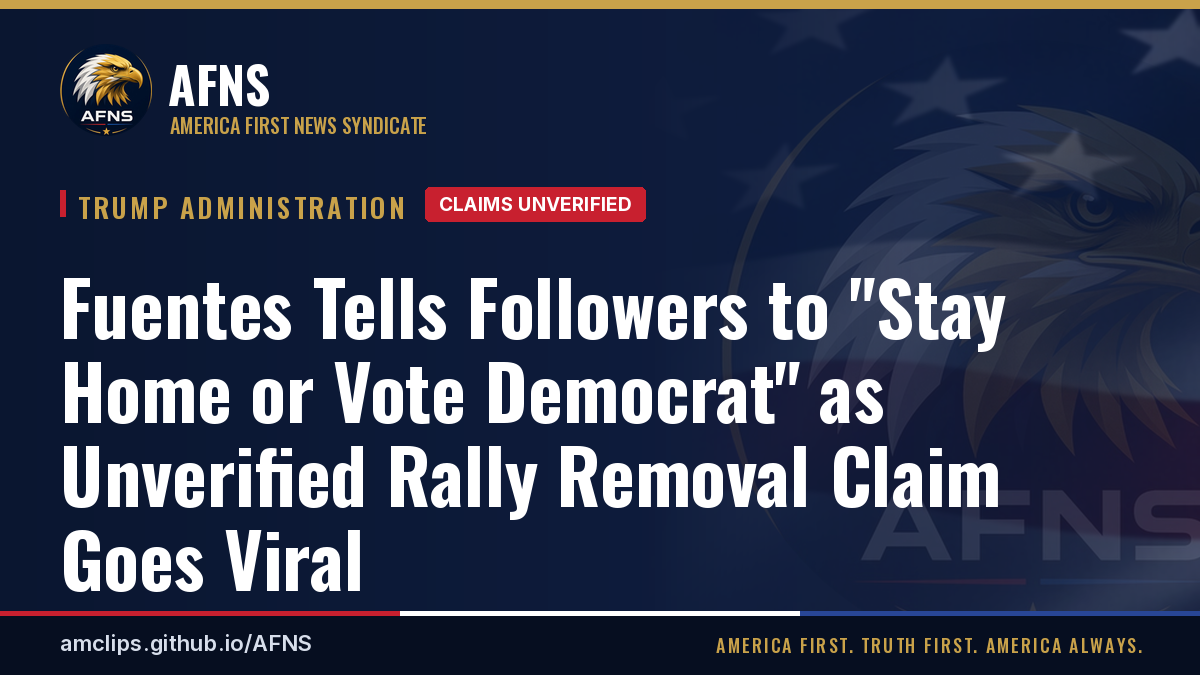
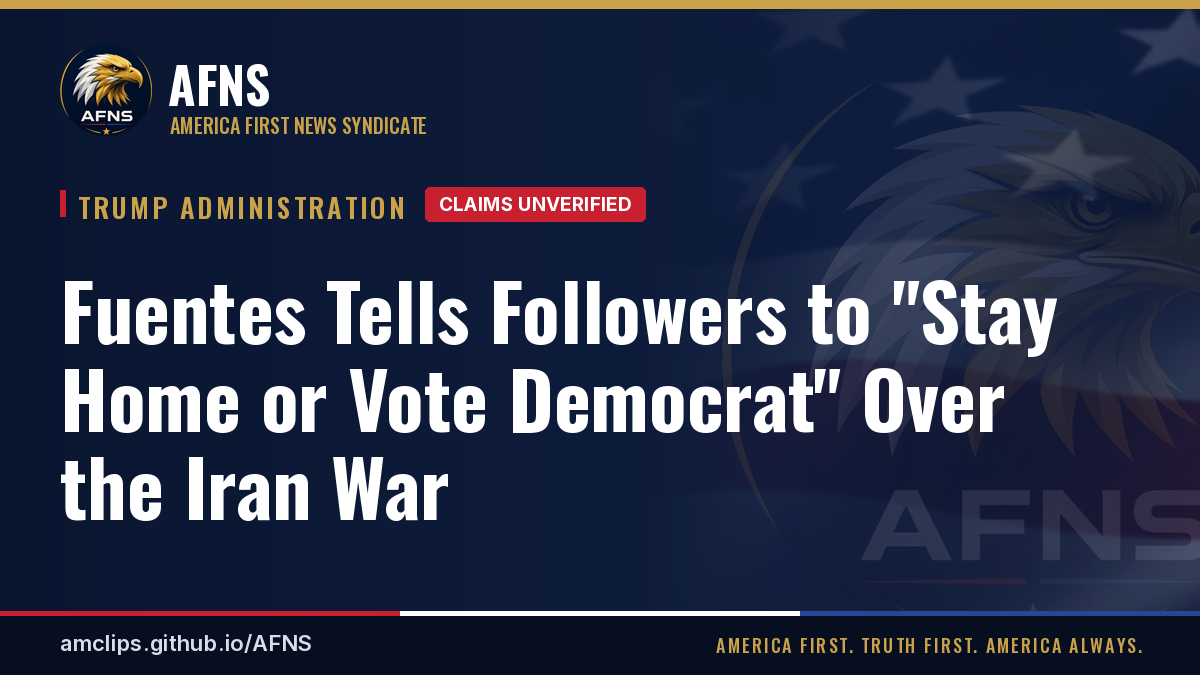
Add the Oct 29 courts, press-access, and DSA stories. (#15)
Five new articles with photos and share cards, plus updates to four existing stories including the Fuentes card. Append five photo credits.

Changed region(s): [[0.0308, 0.4044, 0.8942, 0.9022]]

diff --git a/content/trump-administration/courts-push-back-refugee-rule-california-ballots.md b/content/trump-administration/courts-push-back-refugee-rule-california-ballots.md
@@ -2,7 +2,7 @@
 title: "Courts Push Back on Trump Administration Over Refugee Rule and California Ballots"
 desk: trump-administration
 date: 2026-10-28
-summary: "A federal judge in Massachusetts paused a USCIS rule that gave refugees 10 days instead of 30 to answer termination notices. In California, the 9th Circuit ruled 2-1 against setting aside about 20,000 mail ballots that the administration says went to \"likely\" noncitizens. A district judge is expected to rule Wednesday. The administration defends both moves."
+summary: "Updated Oct. 29: U.S. District Judge David O. Carter on Oct. 28 denied the Justice Department's request to set aside up to 20,000 California mail ballots from voters the administration flagged as likely noncitizens, calling its allegations \"not credible.\" The administration says it will appeal. In Massachusetts, a federal judge paused a USCIS rule that gave refugees 10 days instead of 30 to answer termination notices."
 image: "img/stories/courts-push-back-refugee-rule-california-ballots.jpg"
 image_alt: "The John Joseph Moakley U.S. Courthouse in Boston, seen across the harbor"
 image_credit: "4300streetcar / Wikimedia Commons"
@@ -13,8 +13,14 @@ key_points:
   - Judge Julia Kobick issued a 10-day administrative stay, through Nov. 6, of the USCIS rule cutting refugees' response window from 30 days to 10
   - DHS estimated the rule could affect up to 186,000 refugees; the administration defends it as a national-security and anti-fraud measure
   - The 9th Circuit ruled 2-1 against sequestering about 20,000 California mail ballots the administration says went to "likely" noncitizens
-  - Judge David O. Carter plans to appoint a special master, which could push a final decision past Nov. 3. He is expected to rule Wednesday
+  - Update - Judge David O. Carter denied the request on Oct. 28, when more than 3.7 million Californians had already voted. He called the administration's allegations "not credible"
+  - The administration, which flagged the voters as likely noncitizens, says it will appeal
+  - Los Angeles officials said a preliminary check of 200 names found a "high percentage" who say they were born in the U.S.
 sources:
+  - Judge Carter's order denying the TRO (PDF, via the California Attorney General) | https://oag.ca.gov/system/files/attachments/press-docs/10-28-2026-order-denying-tro.pdf
+  - AP: judge denies federal request on California ballots | https://apnews.com/article/california-noncitizen-voting-trump-midterm-lawsuit-481bed64919ad193e80e051d28beb2c0
+  - LA Times: judge denies feds' request to block 20,000 California ballots | https://www.latimes.com/politics/story/2026-10-28/judge-denies-feds-request-to-block-20-000-california-ballots-in-blistering-opinion
+  - ABC News: judge rejects request to segregate 20,000 ballots | https://abcnews.com/Politics/judge-rejects-trump-administration-request-order-segregate-20000/story?id=137660006
   - The Hill: judge blocks refugee rule | https://thehill.com/homenews/administration/6176283-judge-blocks-refugees-rule/
   - Court order (PDF, via Democracy Forward) | https://democracyforward.org/wp-content/uploads/2026/10/Pana-Order.pdf
   - Investing.com: judge blocks refugee rule | https://www.investing.com/news/world-news/us-judge-blocks-trump-rule-cutting-the-time-refugees-have-to-contest-end-of-status-4976648
@@ -23,7 +29,20 @@ sources:
   - ABC News: judge to appoint special master | https://abcnews.com/Politics/judge-appoint-special-master-california-voting-case-setback/story?id=137622503
 ---
 
-**Status: Temporary orders; cases ongoing.** Neither case has a final ruling. The refugee order is a short administrative stay, and the California dispute is still before a district judge.
+**Updated Oct. 29, 2026.** Judge Carter has ruled on the California ballots. See the update below. First published Oct. 28.
+
+**Status: Temporary orders; cases ongoing.** Neither case is over. The refugee order is a short administrative stay. In California, the district judge denied the administration's request, and the administration says it will appeal.
+
+## Update, Oct. 29: judge denies the California ballot request
+
+On Oct. 28, U.S. District Judge David O. Carter denied the Justice Department's request to stop election officials from processing the ballots of up to 20,000 voters whose citizenship the administration questions ([order](https://oag.ca.gov/system/files/attachments/press-docs/10-28-2026-order-denying-tro.pdf), via the California Attorney General; AP). More than 3.7 million Californians had already voted.
+
+- **The ruling:** Carter wrote that the intervention would "wreak havoc" on the election, and that "Eroded trust in our democracy is irreparable. Once a vote is segregated, lasting harm has occurred" (AP).
+- **The allegations:** Carter called the administration's allegations "not credible" (LA Times).
+- **The sample check:** in court papers, Los Angeles officials said a preliminary check of 200 names on the list found a "high percentage" who say they were born in the U.S. They said the sample also turned up many people with no voting history at all (ABC News).
+- **The earlier appeals ruling:** earlier in the week, a federal appeals court panel ruled 2-1 against a similar request for an immediate order (ABC News; see below).
+
+**The administration's side:** the administration flagged these voters as likely noncitizens and asked the court to have California set their mail ballots aside. It says it will appeal Carter's decision (LA Times). The fight now moves to a higher court less than a week before the Nov. 3 midterms.
 
 ## The refugee rule
 
@@ -46,14 +65,14 @@ The administration is seeking to keep about 20,000 mail ballots from being count
 - **The majority:** Judge Gabriel Sanchez wrote that granting the request would invite "disorder and confusion for voters and election officials alike."
 - **The states' role:** the panel noted that running elections is the state's job.
 
-**The district court:** U.S. District Judge David O. Carter (LA Times; ABC News):
+**The district court, before the ruling:** U.S. District Judge David O. Carter (LA Times; ABC News):
 
 - questioned how the suspect-voter list was put together
 - warned about disenfranchising eligible voters
 - told federal officials to stop threatening election workers
-- plans to appoint a special master, which could push a final decision past Nov. 3
+- had said he planned to appoint a special master, which could push a final decision past Nov. 3
 
-Carter is expected to rule Wednesday, Oct. 28.
+Carter ruled on Oct. 28. See the update above.
 
 **The administration's side:** it says the request is aimed at keeping ballots sent to likely noncitizens from being counted.
 

diff --git a/content/trump-administration/fuentes-stay-home-or-vote-democrat-post.md b/content/trump-administration/fuentes-stay-home-or-vote-democrat-post.md
@@ -1,8 +1,8 @@
 ---
-title: "Fuentes Tells Followers to \"Stay Home or Vote Democrat\" as Unverified Rally Removal Claim Goes Viral"
+title: "Fuentes Tells Followers to \"Stay Home or Vote Democrat\" Over the Iran War"
 desk: trump-administration
 date: 2026-10-27
-summary: "Nick Fuentes's Oct. 26 X post urging followers to skip the midterms or vote Democrat over the Iran war drew about 1.8M views. Separately, viral posts claim a Fuentes fan was removed from a JD Vance rally for wearing an \"America First\" hat. That claim is UNVERIFIED: no news outlet has confirmed it."
+summary: "Nick Fuentes's Oct. 26 X post urging followers to skip the midterms or vote Democrat over the Iran war drew about 1.8M views. Correction: a man in an \"America First\" hat at a JD Vance rally was moved by security to another spot, not thrown out, according to Montana Rep. Braxton Mitchell."
 image: "img/stories/fuentes-stay-home-or-vote-democrat-post.jpg"
 image_alt: "'Vote Here' sign outside a polling place"
 image_credit: "Lorie Shaull / Wikimedia Commons"
@@ -12,19 +12,22 @@ status: "Claims unverified"
 key_points:
   - Fuentes wrote: "Trump promised “no new wars,” then started a war with Iran that we are not only losing but which also destroyed the economy... Stay home or vote Democrat."
   - He has pushed the same message on his stream and earlier backed Democrat Amy Acton for Ohio governor.
-  - UNVERIFIED: the claim that a fan was removed from a Vance rally. Fuentes criticized Vance over it on his show.
+  - Correction: a man in an America First hat at a Vance rally was moved by security, not thrown out, per Montana Rep. Braxton Mitchell to Belgrade News.
   - UNVERIFIED: a viral "Fuentes arrest" story. Only unverified sites are running it, and he was streaming normally.
 sources:
+  - Belgrade News: man in America First hat wasn't thrown out, Mitchell says | https://www.belgrade-news.com/news/man-wearing-america-first-hat-wasnt-thrown-out-of-rally-mitchell-says/article_733030bd-547a-43af-898e-d582eb9cf005.html
   - Fuentes post on X | https://x.com/NickJFuentes/status/2114784559279784051
   - Newsweek | https://www.newsweek.com/far-right-gen-z-influencer-tells-fans-to-skip-midterms-or-vote-democrat-11613601
   - Conservative Institute on the Acton endorsement | https://conservativeinstitute.org/politics/fuentes-urges-ohio-voters-to-back-democrat-acton-over-ramaswamy.htm
-  - @ImperiumFirst rally video | https://x.com/ImperiumFirst/status/2114811413264777704
+  - @ImperiumFirst rally video (claim corrected) | https://x.com/ImperiumFirst/status/2114811413264777704
   - Dayton Daily News on the Oct. 21 heckler | https://www.daytondailynews.com/local/update-protester-removed-from-behind-vance-at-local-gop-rally/article_ff5e431b-d0db-513e-9e27-c800d5f73ee6.html
   - Fuentes clip | https://x.com/whitesocksAF/status/2114947629356585018
   - The Hill "Rising" segment | https://thehill.com/video/does-gop-have-groyper-problem-jack-butler-discusses-rise-of-fuentes-fans-rising/12294751/
 ---
 
-**Status: Claims unverified.** The post and its view count are documented. The rally-removal claim and the arrest story are **UNVERIFIED**.
+**Correction, Oct. 29, 2026:** An earlier version of this article, including its headline, described an UNVERIFIED claim that a Fuentes fan was removed from a JD Vance rally for wearing an America First hat. Montana state Rep. Braxton Mitchell told Belgrade News that the man was not thrown out. He said security moved the man, a volunteer, to a different spot. The headline and text have been corrected.
+
+**Status: Claims unverified.** The post and its view count are documented. The arrest story is **UNVERIFIED**.
 
 ## The post
 
@@ -34,9 +37,11 @@ On October 26, Fuentes posted that Trump had broken his "no new wars" promise wi
 
 He has repeated the message on his stream, telling viewers, "Do not vote in the midterms, and if you do, vote Democrat." Earlier this month he endorsed Democrat Amy Acton over Vivek Ramaswamy in Ohio.
 
-## UNVERIFIED: the rally removal claim
+## Corrected: the Vance rally clip
 
-The same afternoon, the X account @ImperiumFirst posted video it said shows a Fuentes fan behind Vance being "escorted out of the rally for wearing an America First hat." **News outlets haven't confirmed the removal or the reason.** It is a different incident from the October 21 Cincinnati heckler. In a fan-posted clip, Fuentes says, "he has to be thrown out because it's my hat," and he criticized Vance over it on his show.
+The same afternoon, the X account @ImperiumFirst posted video it said shows a Fuentes fan behind Vance being "escorted out of the rally for wearing an America First hat." In a fan-posted clip, Fuentes says, "he has to be thrown out because it's my hat," and he criticized Vance over it on his show. It is a different incident from the October 21 Cincinnati heckler.
+
+**The man was not thrown out.** Montana state Rep. Braxton Mitchell told Belgrade News that security moved the man, a volunteer, to a different spot.
 
 ## UNVERIFIED: the arrest story
 

diff --git a/content/dsa-democrat-watch/america-first-vs-maga-fuentes-stay-home-vote-democrat-hat-incidents.md b/content/dsa-democrat-watch/america-first-vs-maga-fuentes-stay-home-vote-democrat-hat-incidents.md
@@ -13,19 +13,22 @@ key_points:
   - Here, "America First" means Fuentes's movement and branding. AFNS has no affiliation with Fuentes or his movement
   - On Oct. 26, Fuentes said Trump broke his "no new wars" promise and told followers to "stay home or vote Democrat"
   - He urged Ohioans to back Democrat Amy Acton over Vivek Ramaswamy for governor; there's no sign Acton has accepted the endorsement
-  - UNVERIFIED - a viral clip appears to show a young man in an America First hat escorted from behind JD Vance
+  - Correction - a man in an America First hat at a JD Vance rally was moved by security to another spot, not thrown out, per Montana Rep. Braxton Mitchell to Belgrade News
   - UNVERIFIED - X posts claim Trump rally staff in Fort Myers made people remove America First hats or leave
 sources:
+  - Belgrade News: man in America First hat wasn't thrown out, Mitchell says | https://www.belgrade-news.com/news/man-wearing-america-first-hat-wasnt-thrown-out-of-rally-mitchell-says/article_733030bd-547a-43af-898e-d582eb9cf005.html
   - Washington Times: Fuentes tells voters to stay home or vote Democrat | https://www.washingtontimes.com/news/2026/oct/27/extremist-nick-fuentes-tells-voters-stay-home-vote-democrat/
   - Newsweek: influencer tells fans to skip midterms or vote Democrat | https://www.newsweek.com/far-right-gen-z-influencer-tells-fans-to-skip-midterms-or-vote-democrat-11613601
   - The Cincinnati Exchange: the Acton endorsement | https://thecincinnatiexchange.com/groyper-movement-ohio-acton-ramaswamy/
-  - ImperiumFirst on X: rally clip (unverified) | https://x.com/ImperiumFirst/status/2114811413264777704
+  - ImperiumFirst on X: rally clip (claim corrected) | https://x.com/ImperiumFirst/status/2114811413264777704
   - Derrick Evans on X | https://x.com/DerrickEvans4WV/status/2115135197712707757
   - Mark Mitchell on X | https://x.com/honestpollster/status/2114882467475632496
   - BarronTruthX on X: Fort Myers claim (unverified) | https://x.com/BarronTruthX/status/2115137121572860376
 ---
 
-**Status: Claims unverified.** Fuentes's statements are documented by the Washington Times and Newsweek. The hat incidents below are **UNVERIFIED**.
+**Correction, Oct. 29, 2026:** An earlier version of this article said a viral clip appeared to show a young man in an America First hat being escorted out of a JD Vance rally, and labeled that claim UNVERIFIED. Montana state Rep. Braxton Mitchell told Belgrade News that the man was not thrown out. He said security moved the man, a volunteer, to a different spot. This article has been corrected.
+
+**Status: Claims unverified.** Fuentes's statements are documented by the Washington Times and Newsweek. The remaining hat claims below are **UNVERIFIED**.
 
 **A note on the name:** in this article, "America First" refers to Nick Fuentes's movement and its branding, including its hats. AFNS uses "America First" in its own tagline, but it has no affiliation with Fuentes or his movement.
 
@@ -43,9 +46,9 @@ On Oct. 26, Fuentes said President Trump broke his "no new wars" promise over th
 - **Acton:** there is no sign Acton has accepted the endorsement.
 - **Trump:** the President campaigns in Ohio for Ramaswamy today.
 
-## The hat incidents (UNVERIFIED)
+## The hat incidents
 
-- **UNVERIFIED: the Vance clip.** A clip with about 2.2 million views appears to show a young man in an America First hat being escorted out from behind JD Vance (@ImperiumFirst). No outlet has confirmed the venue or the reason. Derrick Evans and pollster Mark Mitchell criticized Vance over it on X.
+- **The Vance rally (corrected).** A clip with about 2.2 million views showed a young man in an America First hat behind JD Vance (@ImperiumFirst). Montana state Rep. Braxton Mitchell told Belgrade News the man was not thrown out. He said security moved the man, a volunteer, to a different spot. Derrick Evans and pollster Mark Mitchell had criticized Vance over the clip on X.
 - **UNVERIFIED: Fort Myers.** X posts claim Trump rally staff in Fort Myers made people remove America First hats or leave (@BarronTruthX).
 - **UNVERIFIED: the hat call.** Fan accounts say Fuentes urged supporters to wear the hats to MAGA rallies.
 

diff --git a/content/courts/judge-alikhan-tro-halts-20m-dhs-ad-campaign.md b/content/courts/judge-alikhan-tro-halts-20m-dhs-ad-campaign.md
@@ -1,0 +1,42 @@
+---
+title: "Judge Temporarily Halts $20 Million DHS Ad Campaign Featuring Trump, Finding DNC Likely to Succeed"
+desk: courts
+date: 2026-10-29
+summary: "U.S. District Judge Loren AliKhan granted the Democratic National Committee a temporary restraining order freezing a $20 million allocation the White House budget office moved into a DHS ad campaign featuring President Trump. The court found the DNC \"likely\" to succeed. It is a TRO, not a final ruling; a hearing is set for Nov. 2."
+image: "img/stories/judge-alikhan-tro-halts-20m-dhs-ad-campaign.jpg"
+image_alt: "The Ronald Reagan Building and International Trade Center on Pennsylvania Avenue in Washington, D.C."
+image_credit: "ajay_suresh / Wikimedia Commons"
+image_source_url: "https://commons.wikimedia.org/wiki/File%3ARonald_Reagan_Building_and_International_Trade_Center_%2853840036176%29.jpg"
+image_license: "CC BY 2.0"
+status: "Temporary restraining order; not a final ruling"
+key_points:
+  - The order stays the ad purchase order and bars OMB and DHS from developing, airing or distributing five challenged ads, including through third parties.
+  - The money came from CBP funds meant for "commemorative efforts and events related to border security," according to the opinion.
+  - The judge found the DNC likely to succeed on its claim, noting the government "raise[d] no arguments on the substantive merits" defending the ads.
+  - A compliance report is due Oct. 30 and a hearing is set for Nov. 2. The TRO lasts 14 days unless extended.
+sources:
+  - TRO opinion (PDF, posted by the DNC) | https://democrats.org/wp-content/uploads/2026/10/026-TRO-Opinion.pdf
+  - Law & Crime via Yahoo News | https://www.yahoo.com/news/politics/articles/judge-bars-trump-admin-using-211612617.html
+  - The Independent | https://www.independent.co.uk/news/world/americas/us-politics/trump-taxpayer-ads-white-house-propaganda-b3075104.html
+---
+
+**Status: Temporary restraining order; not a final ruling.** The judge found the DNC "likely" to succeed. The case has not been decided on the merits.
+
+## What happened
+
+On Oct. 28, U.S. District Judge Loren AliKhan of the District of Columbia granted the Democratic National Committee a temporary restraining order. The order freezes a $20 million allocation that the White House Office of Management and Budget moved into a Department of Homeland Security ad campaign featuring President Trump ([TRO opinion](https://democrats.org/wp-content/uploads/2026/10/026-TRO-Opinion.pdf)).
+
+The order stays the ad purchase order and bars OMB and DHS from developing, airing or distributing five challenged ads, including through third parties. The money came from Customs and Border Protection funds meant for "commemorative efforts and events related to border security," according to the opinion.
+
+## The two sides
+
+- **The DNC:** it sued in early October (Law & Crime). It argues the spending broke the appropriations ban on "publicity or propaganda," the Purpose Statute and the Antideficiency Act.
+- **The government:** its main defense was that it had stopped the conduct, according to the opinion. It "raise[d] no arguments on the substantive merits" defending the ads, the judge wrote.
+
+## The court's reasoning
+
+In a 35-page order, AliKhan found the DNC likely to succeed on its Administrative Procedure Act claim. She treated the government's defense as a mootness argument that the government had to prove, and said "voluntary cessation" does not end a case on its own. The opinion says the ads kept airing on Oct. 6, 7, 11 and 12, after the President's Oct. 5 statement that taxpayer money would no longer be used. They also kept running after a separate Oct. 12 TRO in a Common Cause case in New York (The Independent).
+
+## What's next
+
+A compliance report is due Oct. 30, and a hearing is set for Nov. 2. The TRO lasts 14 days unless the court extends it.

diff --git a/content/trump-administration/cnn-ms-now-politico-expand-press-access-lawsuit.md b/content/trump-administration/cnn-ms-now-politico-expand-press-access-lawsuit.md
@@ -1,0 +1,40 @@
+---
+title: "CNN, MS NOW and Politico Expand Lawsuit Over Oval Office and Air Force One Press Access"
+desk: trump-administration
+date: 2026-10-29
+summary: "CNN, MS NOW and Politico amended their lawsuit against the White House on Oct. 28, saying they are still shut out of press-pool duties in the Oval Office and aboard Air Force One even after a judge restored their general White House access. The White House said \"the Fake News has no place demanding a spot in the President's Oval Office.\""
+image: "img/stories/cnn-ms-now-politico-expand-press-access-lawsuit.jpg"
+image_alt: "Air Force One, a Boeing VC-25A, in flight"
+image_credit: "Mees Jansen / Wikimedia Commons"
+image_source_url: "https://commons.wikimedia.org/wiki/File%3AAir_Force_One_-_Boeing_VC-25A_92-9000_%28SAM29000%29.jpg"
+image_license: "CC0"
+status: "Amended complaint filed; case ongoing"
+key_points:
+  - The amended complaint was filed Oct. 28 in federal court in Washington, D.C. (Reuters).
+  - Judge Timothy Kelly has issued orders since Sept. 24 restoring access, but they didn't cover the Oval Office or Air Force One (CNBC).
+  - CNN says it has been repeatedly barred as the TV pooler on Air Force One, and Politico says it was kept off two out-of-town print pool trips (CNBC).
+  - The White House said "the Fake News has no place demanding a spot in the President's Oval Office" (Reuters).
+sources:
+  - CNBC | https://www.cnbc.com/2026/10/28/trump-white-house-media-ban-cnn-msnow-politico.html
+  - CNN | https://www.cnn.com/2026/10/28/media/cnn-msnow-politico-amended-lawsuit-trump-white-house-press
+  - Reuters via Investing.com | https://www.investing.com/news/politics-news/cnn-ms-now-politico-expand-lawsuit-over-white-house-access-limits-4981107
+  - MS NOW | https://www.ms.now/news/ms-now-cnn-and-politico-amend-lawsuit-seeking-to-restore-access-to-oval-office-and-air-force-one
+---
+
+**Status: Amended complaint filed; case ongoing.** These are the outlets' allegations; the court has not ruled on the new claims.
+
+## What happened
+
+CNN, MS NOW and Politico amended their lawsuit on Oct. 28 in federal court in Washington, D.C. ([Reuters via Investing.com](https://www.investing.com/news/politics-news/cnn-ms-now-politico-expand-lawsuit-over-white-house-access-limits-4981107)). They say they are still shut out of press-pool duties in the Oval Office and aboard Air Force One, even after Judge Timothy Kelly restored their general White House access ([CNBC](https://www.cnbc.com/2026/10/28/trump-white-house-media-ban-cnn-msnow-politico.html)). Kelly's orders since Sept. 24 did not cover those spaces, CNBC reports.
+
+## The outlets' claims
+
+The outlets allege retaliation that violates the First and Fifth Amendments, and accuse the White House of "continued retaliatory and viewpoint-discriminatory deprivation" ([CNN](https://www.cnn.com/2026/10/28/media/cnn-msnow-politico-amended-lawsuit-trump-white-house-press)). The complaint says they do not claim an unlimited right of access, but "once the White House opens those spaces to selected journalists... the White House may not exclude Plaintiffs because it dislikes their coverage" (CNBC).
+
+- CNN says it has been repeatedly barred as the TV pooler on Air Force One (CNBC).
+- Politico says it was kept off two out-of-town print pool trips (CNBC).
+- The filing says Trump has held 121 press events aboard or beside Air Force One and 138 in the Oval Office in his second term (CNBC).
+
+## The White House
+
+"The Fake News has no place demanding a spot in the President's Oval Office," the White House said (Reuters).

diff --git a/content/courts/idaho-supreme-court-upholds-dismissal-tucker-v-idaho.md b/content/courts/idaho-supreme-court-upholds-dismissal-tucker-v-idaho.md
@@ -1,0 +1,40 @@
+---
+title: "Idaho Supreme Court, 3-2, Upholds Dismissal of Decade-Long ACLU Public Defense Lawsuit"
+desk: courts
+date: 2026-10-29
+summary: "The Idaho Supreme Court voted 3-2 on Oct. 28 to uphold the dismissal of Tucker v. Idaho, the ACLU's 2015 Sixth Amendment suit over public defense. The majority said the state's new statewide public defender system deserves time to work. Two justices dissented."
+image: "img/stories/idaho-supreme-court-upholds-dismissal-tucker-v-idaho.jpg"
+image_alt: "The Idaho State Supreme Court Building in Boise"
+image_credit: "Tamanoeconomico / Wikimedia Commons"
+image_source_url: "https://commons.wikimedia.org/wiki/File%3AIdaho_State_Supreme_Court_Building_%282%29.jpg"
+image_license: "CC BY-SA 4.0"
+status: "Dismissal upheld 3-2"
+key_points:
+  - Chief Justice Robyn Brody wrote for the majority, joined by Justices Moeller and Bevan.
+  - Justices Meyer and Burdick dissented. They said the case was not moot and the new system has not been shown to fix the problems.
+  - The court left room for a new lawsuit if the state public defender's office fails its constitutional duties (Boise State Public Radio).
+  - The ACLU of Idaho called the ruling a disappointment and said it is weighing its options.
+sources:
+  - Idaho Supreme Court opinion (PDF) | https://api.isc.idaho.gov/uploads/Documents/ISC/Civil/2026/1793203825047-51631.pdf
+  - Boise State Public Radio | https://www.boisestatepublicradio.org/law-justice/2026-10-28/supreme-court-tucker-v-idaho-aclu
+  - ACLU of Idaho statement | https://www.acluidaho.org/press-releases/idaho-supreme-court-affirms-lower-court-ruling-to-dismiss-public-defense-case/
+  - The Spokesman-Review | https://www.spokesman.com/stories/2026/oct/28/idaho-supreme-court-upholds-dismissal-of-legal-cha/
+---
+
+**Status: Dismissal upheld 3-2.** The court left room for a future lawsuit.
+
+## What happened
+
+On Oct. 28, the Idaho Supreme Court voted 3-2 to uphold the dismissal of Tucker v. Idaho ([opinion](https://api.isc.idaho.gov/uploads/Documents/ISC/Civil/2026/1793203825047-51631.pdf)). The ACLU filed the Sixth Amendment suit in 2015, when each of Idaho's 44 counties ran its own public defense, and argued caseloads were too high. An Ada County judge dismissed it in February 2024, after the Legislature created a statewide system that took over in October 2024 ([Spokesman-Review](https://www.spokesman.com/stories/2026/oct/28/idaho-supreme-court-upholds-dismissal-of-legal-cha/)).
+
+## The majority
+
+Chief Justice Robyn Brody, joined by Justices Moeller and Bevan, wrote that this "is not a case in which a private actor… simply promises to do better," but one where elected officials "comprehensively restructured a public institution." Whether the new law will "ultimately succeed" is "not for us to decide today," she wrote.
+
+## The dissent
+
+Justices Meyer and Burdick dissented. They said the case was not moot and that the new system has not been shown to fix the problems. Meyer wrote that the majority relied on a mootness framework Idaho law never adopted and the Ninth Circuit does not use.
+
+## Reaction
+
+The ACLU of Idaho called the ruling a disappointment and said it is weighing its options ([ACLU of Idaho](https://www.acluidaho.org/press-releases/idaho-supreme-court-affirms-lower-court-ruling-to-dismiss-public-defense-case/)). The ACLU says hundreds, if not thousands, of defendants went without lawyers during the new office's rocky start. That is the ACLU's claim.

diff --git a/content/dsa-democrat-watch/mamdani-strategist-epstein-dsa-aoc-2028-remarks.md b/content/dsa-democrat-watch/mamdani-strategist-epstein-dsa-aoc-2028-remarks.md
@@ -1,0 +1,35 @@
+---
+title: "Mamdani Strategist Talks DSA Plans for AOC in 2028, Later Says the Views Were His Own"
+desk: dsa-democrat-watch
+date: 2026-10-29
+summary: "Andrew Epstein, a top strategist for Zohran Mamdani, told Belgian newspaper De Tijd that DSA wants to take over the Democratic Party by running Alexandria Ocasio-Cortez for president in 2028, the New York Post reports. Epstein later told the Post the views were his own, not DSA's."
+image: "img/stories/mamdani-strategist-epstein-dsa-aoc-2028-remarks.jpg"
+image_alt: "New York City Hall seen through the trees and fence of City Hall Park"
+image_credit: "Nielsoncaetanosalmeron / Wikimedia Commons"
+image_source_url: "https://commons.wikimedia.org/wiki/File%3ANew_York_City_Hall_-_September_2025.jpg"
+image_license: "CC BY 4.0"
+status: "Remarks reported; Epstein says views are his own"
+key_points:
+  - Epstein later told the New York Post the views were his own, not DSA's.
+  - Epstein said "you can only change a party by putting forward a president," comparing it to how Trump remade the GOP (NY Post).
+  - An Economist/YouGov poll found 50% would vote for a democratic socialist and 41% would not (The Hill).
+  - DSA counts about 200 endorsed candidates and ballot measures on the Nov. 3 ballot (Democratic Left).
+sources:
+  - New York Post | https://nypost.com/2026/10/28/us-news/mamdani-campaign-guru-admits-dsa-wants-to-take-over-the-democratic-party-by-running-aoc-for-president-in-2028/
+  - The Hill: voters and democratic socialist candidates | https://thehill.com/homenews/campaign/6178694-voters-support-democratic-socialist/
+  - Democratic Left: DSA races to watch | https://democraticleft.dsausa.org/2026/10/28/dsa-races-to-watch-on-election-night/
+---
+
+**Epstein says these are his own views, not DSA's.** After the interview was published, Andrew Epstein told the New York Post that the views he expressed were his own and not those of DSA ([NY Post](https://nypost.com/2026/10/28/us-news/mamdani-campaign-guru-admits-dsa-wants-to-take-over-the-democratic-party-by-running-aoc-for-president-in-2028/)).
+
+## What he said
+
+Epstein, a top strategist for Zohran Mamdani, told the Belgian newspaper De Tijd that DSA wants to take over the Democratic Party by running Rep. Alexandria Ocasio-Cortez for president in 2028, according to the New York Post's account of the interview.
+
+"You can only change a party by putting forward a president," Epstein said, comparing it to how Trump remade the GOP (NY Post).
+
+## The wider picture
+
+- **Polling:** an Economist/YouGov poll found 50% would vote for a democratic socialist and 41% would not ([The Hill](https://thehill.com/homenews/campaign/6178694-voters-support-democratic-socialist/)).
+- **The Nov. 3 ballot:** DSA counts about 200 endorsed candidates and ballot measures ([Democratic Left](https://democraticleft.dsausa.org/2026/10/28/dsa-races-to-watch-on-election-night/)).
+- **Races DSA is watching,** per its publication: Nithya Raman for Los Angeles mayor, Gonzales-Torres against Rep. Jimmy Gomez, and Mai Vang against Rep. Doris Matsui.

diff --git a/content/courts/fifth-circuit-en-banc-rehear-texas-scope-act.md b/content/courts/fifth-circuit-en-banc-rehear-texas-scope-act.md
@@ -1,0 +1,35 @@
+---
+title: "Full Fifth Circuit Will Rehear Challenge to Texas SCOPE Act, Vacating Panel Ruling That Blocked Key Parts"
+desk: courts
+date: 2026-10-29
+summary: "The Fifth Circuit voted Oct. 28 to rehear en banc the tech industry's challenge to Texas's SCOPE Act (HB 18), a law on minors' online safety. The order vacates a July 2026 panel opinion that had blocked key parts of the law, giving Texas Attorney General Ken Paxton another chance to enforce it in full."
+image: "img/stories/fifth-circuit-en-banc-rehear-texas-scope-act.jpg"
+image_alt: "The John Minor Wisdom U.S. Court of Appeals Building in New Orleans, home of the Fifth Circuit"
+image_credit: "ajay_suresh / Wikimedia Commons"
+image_source_url: "https://commons.wikimedia.org/wiki/File%3AJohn_Minor_Wisdom_United_States_Court_of_Appeals_Building_%2855151705481%29.jpg"
+image_license: "CC BY 4.0"
+status: "Rehearing granted; panel ruling vacated"
+key_points:
+  - A majority of the court's active judges voted for rehearing, in an unsigned order.
+  - The July 24 panel opinion, which held the law's monitoring-and-filtering requirement preempted by Section 230, is now vacated.
+  - The cases, Nos. 24-50721 and 25-50096, were brought by tech trade groups including CCIA, and by student groups.
+  - Oral argument and supplemental briefing dates will be set later.
+sources:
+  - Fifth Circuit order (PDF) | https://www.ca5.uscourts.gov/opinions/pub/24/24-50721-CV1.pdf
+  - Bloomberg Law | https://news.bloomberglaw.com/litigation/texas-child-online-safety-law-will-get-full-fifth-circuit-review
+  - FindLaw: the July panel opinion | https://caselaw.findlaw.com/court/us-5th-circuit/254541.html
+---
+
+**Status: Rehearing granted; panel ruling vacated.** The full court has not ruled on the law yet.
+
+## What happened
+
+On Oct. 28, the U.S. Court of Appeals for the Fifth Circuit voted to rehear en banc the challenge to Texas's SCOPE Act, HB 18 ([order](https://www.ca5.uscourts.gov/opinions/pub/24/24-50721-CV1.pdf)). A majority of the court's active judges voted for rehearing in an unsigned order. Granting rehearing automatically vacates the July 2026 panel opinion that had blocked key parts of the law (Bloomberg Law).
+
+## The law and the challenge
+
+The SCOPE Act requires apps and websites to take steps to shield minors from harmful content. Tech trade groups, including CCIA, and student groups challenged it in the Western District of Texas on First Amendment and other grounds. On July 24, a panel ruled against key features, holding the monitoring-and-filtering requirement preempted by Section 230 ([FindLaw](https://caselaw.findlaw.com/court/us-5th-circuit/254541.html)). Texas sought rehearing.
+
+## What's next
+
+The order gives Texas Attorney General Ken Paxton another chance to enforce the law in full. Oral argument and supplemental briefing dates will be set later. Bloomberg Law reports the case could set up a Supreme Court fight.

diff --git a/content/trump-administration/daily-trump-administration-briefing-2026-10-27.md b/content/trump-administration/daily-trump-administration-briefing-2026-10-27.md
@@ -85,7 +85,7 @@ The AFNS daily briefing on the Trump administration for Tuesday, October 27, 202
 ## Campaign trail
 
 - [Mississippi, Michigan, Hegseth, Libya](../campaign-trail-mississippi-michigan-hegseth-libya/): rallies, El-Sayed's denial, Jeffries on Hegseth, and Libya summoning the U.S. envoy.
-- [Fuentes tells followers to "stay home or vote Democrat"](../fuentes-stay-home-or-vote-democrat-post/) (**claims unverified**): the rally-removal claim and the arrest story are UNVERIFIED.
+- [Fuentes tells followers to "stay home or vote Democrat"](../fuentes-stay-home-or-vote-democrat-post/) (**claims unverified**): the arrest story is UNVERIFIED. **Correction, Oct. 29, 2026:** this item earlier listed an UNVERIFIED claim that a fan was removed from a Vance rally. Montana Rep. Braxton Mitchell told Belgrade News that security moved the man, a volunteer, to a different spot, and that he was not thrown out.
 - Top administration post of the day: the White House's "Dems are washed up. 🎷" at about 2.6M views ([X](https://x.com/WhiteHouse/status/2114839466686701604)).
 
 ## Fact checks
